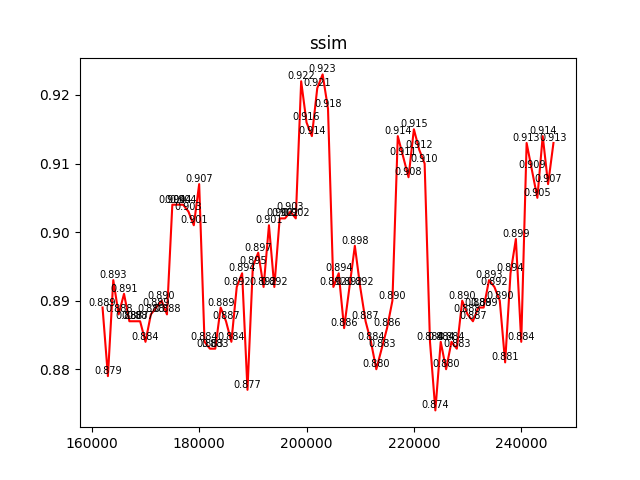
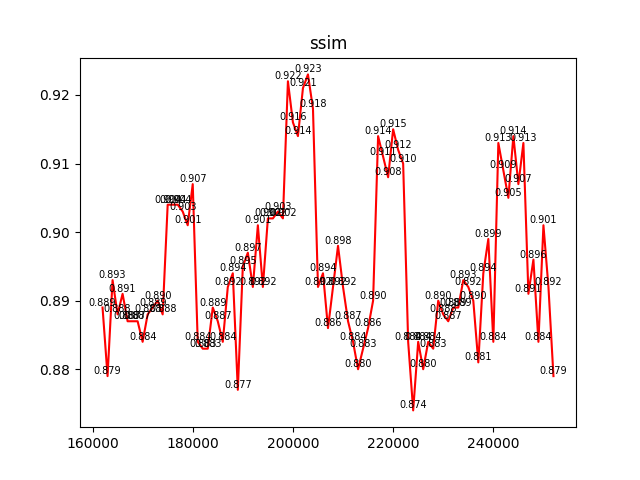
add

diff --git a/ReaderCSVToImage.py b/ReaderCSVToImage.py
@@ -3,10 +3,10 @@ import csv
 from matplotlib import pyplot as plt
 #subdir = 'kth_channel_128'
 #subdir = 'kth128'
-subdir = 'threemau_multidim_cross'
+#subdir = 'threemau_multidim_cross'
 #subdir = 'mulmul_o_3x7'
 #subdir = 'threemau_multidim_cache_cross'
-#subdir = 'threemau_multidim_cache_cross_mul'
+subdir = 'threemau_multidim_cache_cross_mul'
 
 file = "plot/images/"+subdir+"/result.csv"
 result_file = open(file)  # 打开csv文件
